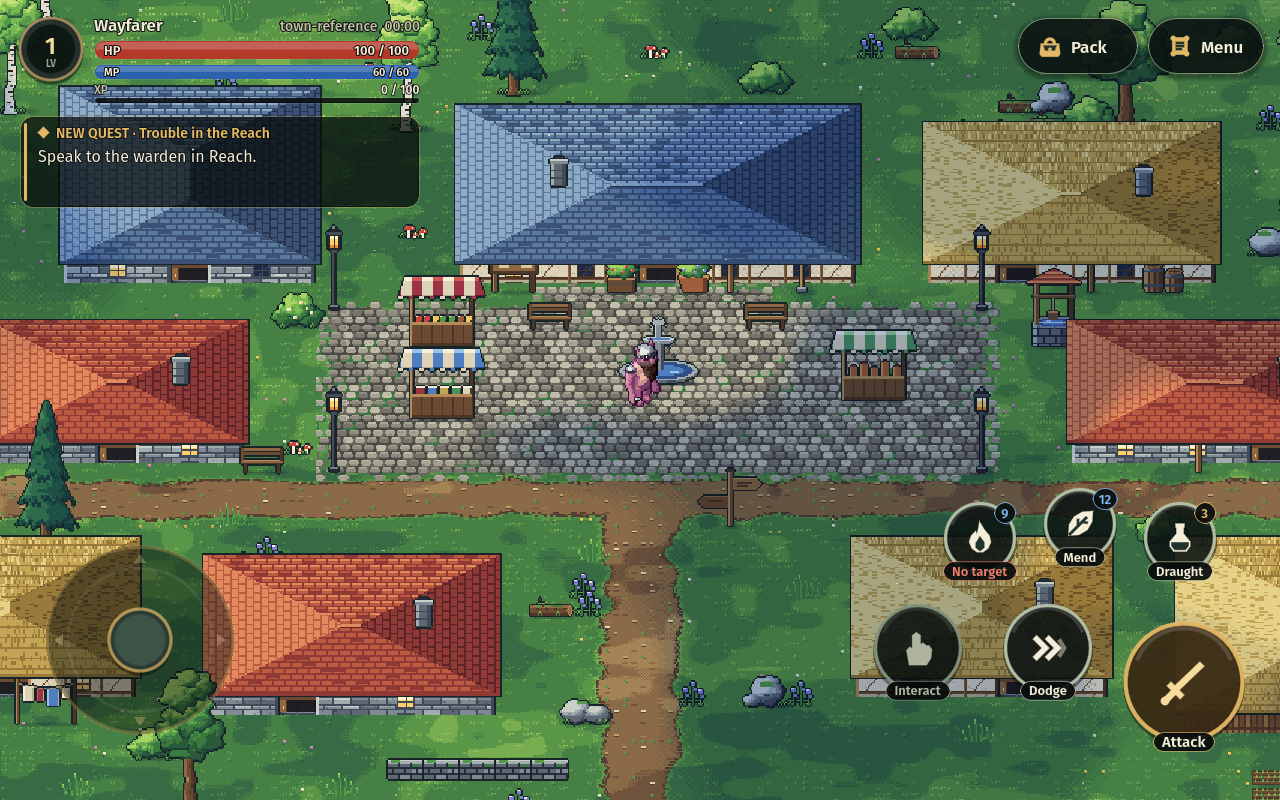
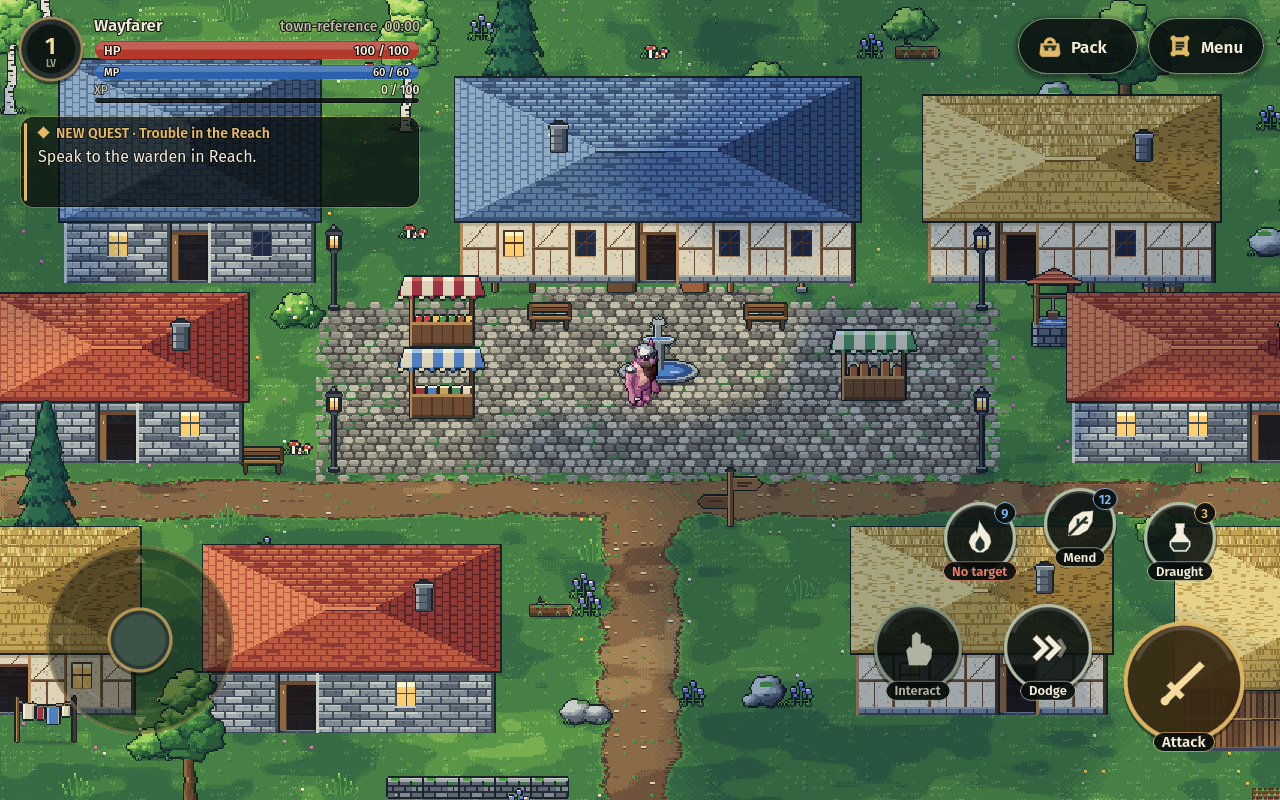
Draw town houses at the character's scale
House walls were 16 pixels high, the dungeon's wall height, which made
a 40-pixel character look huge beside them. Houses now stand 44 pixels:
a full-height front wall with larger windows and a 34-pixel doorway
under a transom, the roof raised to match, and a full-height back wall
inside. The front wall fades with the roof on entering, leaving the low
inner walls as a cutaway so the room still shows.

The wall shader now reads wall pixels from UV, so a low wall shows the
foot of the same pattern a full wall shows whole. The reference town is
re-spaced for the taller shells.

Claude-Session: https://claude.ai/code/session_011Mxa9ofPqLoqXLixAF9oze

diff --git a/game/dev/TownPlan.cs b/game/dev/TownPlan.cs
@@ -83,6 +83,8 @@ public static class TownBlocks
         new("26344f"),new("3b5274"),new("5b7a9e"),new("8fabc4"),
         new("4a3426"),new("6a4c34"),new("82613f"),new("9a784f"),
         new("5f4f38"),new("786447"),new("c4a455")};
+    /// <summary>Height of a house wall on screen: a little taller than a standing character.</summary>
+    public const int Rise=44;
     static ShaderMaterial? wall,floor;
     static Shader? roof;
     static ShaderMaterial Shared(string path)
@@ -91,6 +93,8 @@ public static class TownBlocks
     }
     public static ShaderMaterial Wall=>wall??=Shared("res://game/art/town_wall.gdshader");
     public static ShaderMaterial Floor=>floor??=Shared("res://game/art/town_floor.gdshader");
+    /// <summary>A wall material of its own, for a facade that fades.</summary>
+    public static ShaderMaterial Facade()=>Shared("res://game/art/town_wall.gdshader");
     public static ShaderMaterial Roof()
     {
         roof??=GD.Load<Shader>("res://game/art/town_roof.gdshader");
@@ -129,32 +133,49 @@ public partial class TownView : Node2D
 
 /// <summary>A house's roof, in the actor layer at the house's front edge: characters in
 /// front stand before it, everything within is under it. It fades out while the wayfarer
-/// is inside the house and returns when they leave.</summary>
+/// is inside the house and returns when they leave. The full-height front wall goes with
+/// it, leaving the low inner wall, so the room is seen as a cutaway.</summary>
 public partial class TownRoof : Node2D
 {
     public const float FadeSeconds=.22f;
     /// <summary>How far the roof stands above the wall heads; furniture within stays under it.</summary>
-    public const int Loft=20;
+    public const int Loft=10;
+    /// <summary>Height of the doorway opening under its transom.</summary>
+    public const int DoorHeight=34;
     public TownHouse House {get;init;}
+    public int Seed {get;init;}
     /// <summary>The wayfarer's ground position.</summary>
     public Func<Vector2> Wayfarer {get;init;}=()=>new Vector2(-1,-1);
     public Func<bool> ReducedMotion {get;init;}=()=>false;
     public float Opacity {get;private set;}=1;
     public bool Occupied {get;private set;}
-    readonly TerrainBatch batch=new();
-    ShaderMaterial? material;
+    readonly TerrainBatch batch=new(),front=new();
+    ShaderMaterial? material,facade;
     Rect2 area;
-    public static List<TownRoof> Create(TownPlan plan,Func<Vector2> wayfarer,Func<bool> reducedMotion)
-        =>plan.Houses.Select(house=>new TownRoof{House=house,Wayfarer=wayfarer,ReducedMotion=reducedMotion,
+    public static List<TownRoof> Create(TownPlan plan,int seed,Func<Vector2> wayfarer,Func<bool> reducedMotion)
+        =>plan.Houses.Select(house=>new TownRoof{House=house,Seed=seed,Wayfarer=wayfarer,ReducedMotion=reducedMotion,
             // A hair past the south wall's own row, so the roof always draws over it.
             Position=new Vector2(0,(house.Y+house.Height)*12+.5f),TextureFilter=TextureFilterEnum.Nearest}).ToList();
     public override void _Ready()
     {
         // The roof oversails the walls and stops just over the top of the south face.
-        float left=House.X*24-4,right=(House.X+House.Width)*24+4,top=House.Y*12-TerrainWallRow.Rise-Loft,bottom=(House.Y+House.Height)*12-TerrainWallRow.Rise+4;
+        float left=House.X*24-4,right=(House.X+House.Width)*24+4,top=House.Y*12-TownBlocks.Rise-Loft,bottom=(House.Y+House.Height)*12-TownBlocks.Rise+4;
         area=new Rect2(left,top-Position.Y,right-left,bottom-top);
         batch.Quad(area,new Rect2(0,0,area.Size.X,area.Size.Y),Colors.White);
         material=TownBlocks.Roof();material.SetShaderParameter("roof_size",area.Size);material.SetShaderParameter("roof_style",House.Roof);
+        // The front of the house: a full-height facade over the low inner wall, with a
+        // transom over each doorway. It goes with the roof.
+        float sill=(House.Y+House.Height)*12-Position.Y;int south=House.Y+House.Height-1;
+        for(int x=House.X;x<House.X+House.Width;x++)
+        {
+            bool door=House.Doorway(x,south);
+            float End(int nx)=>nx<House.X||nx>=House.X+House.Width||House.Doorway(nx,south)?.5f:0;
+            var (window,lit)=TownBlocks.Window(House,Seed,x);
+            int rise=door?TownBlocks.Rise-DoorHeight:TownBlocks.Rise;
+            front.Quad(new Rect2(x*24,sill-TownBlocks.Rise,24,rise),new Rect2(0,0,24,rise),new Color(1,door?0:End(x-1),door?0:End(x+1),(House.Wall+(window&&!door?4:0)+(window&&lit&&!door?8:0))/16f));
+        }
+        facade=TownBlocks.Facade();
+        AddChild(new Cover{Batch=front,Material=facade,TextureFilter=TextureFilterEnum.Nearest,ShowBehindParent=true});
         AddChild(new Cover{Batch=batch,Material=material,TextureFilter=TextureFilterEnum.Nearest,ShowBehindParent=true});
         Step(0,true);
     }
@@ -166,14 +187,14 @@ public partial class TownRoof : Node2D
         // Frozen time and reduced motion both get the end state at once.
         Opacity=snap||delta<=0||ReducedMotion()?target:Mathf.MoveToward(Opacity,target,(float)delta/FadeSeconds);
         if(Opacity==before&&!snap)return;
-        material!.SetShaderParameter("roof_alpha",Opacity);QueueRedraw();
+        material!.SetShaderParameter("roof_alpha",Opacity);facade!.SetShaderParameter("wall_alpha",Opacity);QueueRedraw();
     }
     public override void _Process(double delta)=>Step(delta,false);
     public override void _Draw()
     {
         // From outside the doorway is a dark opening under an oak lintel, with the door
         // standing open against the wall. It clears with the roof.
-        float sill=(House.Y+House.Height)*12-Position.Y,head=sill-TerrainWallRow.Rise+4;
+        float sill=(House.Y+House.Height)*12-Position.Y,head=sill-DoorHeight;
         for(int i=0;i<House.DoorWidth;i++)
         {
             float x=(House.X+House.Door+i)*24;
@@ -187,7 +208,7 @@ public partial class TownRoof : Node2D
         var foot=new Vector2(area.Position.X+area.Size.X*(House.X%2==0?.74f:.26f),area.Position.Y+area.Size.Y*.5f+2).Floor();
         DrawTextureRectRegion(TownAtlas.Props,new Rect2(foot-TownArt.Pivot,new Vector2(TownArt.Width,TownArt.Height)),TownArt.PropSource(TownArt.Module(TownProp.Chimney)),new Color(1,1,1,Opacity));
     }
-    public override void _ExitTree(){batch.Dispose();material?.Dispose();}
+    public override void _ExitTree(){batch.Dispose();front.Dispose();material?.Dispose();facade?.Dispose();}
     partial class Cover : Node2D
     {
         public TerrainBatch Batch {get;init;}=null!;

diff --git a/game/tests/TownPreview.cs b/game/tests/TownPreview.cs
@@ -28,9 +28,9 @@ public static class TownPreview
         // North side of the square: chapel, inn and shop.
         plan.Build(HouseStyle.Chapel,16,8,7,8,3).Build(HouseStyle.Inn,27,9,11,7,5).Build(HouseStyle.Cottage,40,10,8,6,2);
         // The lane west and east.
-        plan.Build(HouseStyle.Cottage,5,20,7,6,2).Build(HouseStyle.Stone,14,21,7,5,3).Build(HouseStyle.Smithy,44,21,8,5,5,2).Build(HouseStyle.Cottage,54,20,7,6,3);
+        plan.Build(HouseStyle.Cottage,5,21,7,5,2).Build(HouseStyle.Stone,14,21,7,5,3).Build(HouseStyle.Smithy,44,21,8,5,5,2).Build(HouseStyle.Cottage,54,21,7,5,3);
         // South of the road.
-        plan.Build(HouseStyle.Cottage,11,33,7,6,3).Build(HouseStyle.Stone,20,34,8,6,2).Build(HouseStyle.Cottage,38,33,7,6,4).Build(HouseStyle.Barn,47,33,9,8,3,2);
+        plan.Build(HouseStyle.Cottage,11,34,7,6,3).Build(HouseStyle.Stone,20,35,8,6,2).Build(HouseStyle.Cottage,38,34,7,6,4).Build(HouseStyle.Barn,47,34,9,8,3,2);
         // Inside the inn: bar, hearth, tables and a runner from the door.
         plan.Add(TownProp.Counter,29,11).Add(TownProp.Shelf,29,10).Add(TownProp.Barrels,31,10).Add(TownProp.Hearth,35,10)
             .Add(TownProp.Table,29,13).Add(TownProp.Table,35,13).Add(TownProp.Rug,32,12).Add(TownProp.Rug,32,13).Add(TownProp.Rug,32,14);
@@ -41,29 +41,29 @@ public static class TownPreview
         // Shop, smithy and homes.
         plan.Add(TownProp.Counter,44,12).Add(TownProp.Shelf,41,11).Add(TownProp.Shelf,46,11).Add(TownProp.Crates,46,13).Add(TownProp.Sacks,41,13);
         plan.Add(TownProp.Hearth,46,22).Add(TownProp.Anvil,48,23).Add(TownProp.Barrels,50,22).Add(TownProp.Crates,45,23);
-        plan.Add(TownProp.Bed,6,21).Add(TownProp.Hearth,9,21).Add(TownProp.Table,9,23).Add(TownProp.Rug,7,23);
+        plan.Add(TownProp.Bed,6,22).Add(TownProp.Hearth,9,22).Add(TownProp.Table,10,23).Add(TownProp.Rug,7,23);
         plan.Add(TownProp.Bed,15,22,1).Add(TownProp.Hearth,18,22).Add(TownProp.Rug,17,23,1);
-        plan.Add(TownProp.Shelf,55,21).Add(TownProp.Bed,59,21).Add(TownProp.Table,57,23);
-        plan.Add(TownProp.Bed,12,34).Add(TownProp.Hearth,15,34).Add(TownProp.Rug,14,36);
-        plan.Add(TownProp.Shelf,21,35).Add(TownProp.Hearth,23,35).Add(TownProp.Bed,26,35,1).Add(TownProp.Table,24,37);
-        plan.Add(TownProp.Bed,39,34,1).Add(TownProp.Table,42,35).Add(TownProp.Rug,41,36);
-        plan.Add(TownProp.Hay,48,34,1).Add(TownProp.Hay,51,34,0).Add(TownProp.Hay,54,35,0).Add(TownProp.Cart,52,37).Add(TownProp.Sacks,54,38).Add(TownProp.Crates,48,37);
+        plan.Add(TownProp.Shelf,55,22).Add(TownProp.Bed,59,22).Add(TownProp.Table,57,23);
+        plan.Add(TownProp.Bed,12,35).Add(TownProp.Hearth,15,35).Add(TownProp.Rug,14,37);
+        plan.Add(TownProp.Shelf,21,36).Add(TownProp.Hearth,23,36).Add(TownProp.Bed,26,36,1).Add(TownProp.Table,24,38);
+        plan.Add(TownProp.Bed,39,35,1).Add(TownProp.Table,42,36).Add(TownProp.Rug,41,37);
+        plan.Add(TownProp.Hay,48,35,1).Add(TownProp.Hay,51,35,0).Add(TownProp.Hay,54,36,0).Add(TownProp.Cart,52,38).Add(TownProp.Sacks,54,39).Add(TownProp.Crates,48,38);
         // The square itself.
         plan.Add(TownProp.Fountain,32,21).Add(TownProp.Stall,26,19,0).Add(TownProp.Stall,26,23,1).Add(TownProp.Stall,38,22,2)
             .Add(TownProp.LampPost,23,17).Add(TownProp.LampPost,41,17).Add(TownProp.LampPost,23,26).Add(TownProp.LampPost,41,26)
             .Add(TownProp.Bench,29,18).Add(TownProp.Bench,35,18).Add(TownProp.NoticeBoard,28,16)
             .Add(TownProp.Planter,31,16,0).Add(TownProp.Planter,33,16,1).Add(TownProp.TradeSign,34,16,0).Add(TownProp.BannerPole,36,16)
             .Add(TownProp.TradeSign,44,16,2).Add(TownProp.Barrels,46,16).Add(TownProp.TradeSign,47,26,1).Add(TownProp.Well,43,19);
-        plan.Add(TownProp.Signpost,34,29).Add(TownProp.Woodpile,53,26).Add(TownProp.Washing,15,40).Add(TownProp.Hay,58,39,1).Add(TownProp.Bench,21,26);
+        plan.Add(TownProp.Signpost,34,29).Add(TownProp.Woodpile,53,26).Add(TownProp.Washing,15,41).Add(TownProp.Hay,58,40,1).Add(TownProp.Bench,21,26);
         // A fenced kitchen garden west of the south cottages.
         for(int x=2;x<=8;x++){plan.Add(TownProp.FenceRun,x,31);if(x!=5)plan.Add(TownProp.FenceRun,x,35);}
         plan.Add(TownProp.Gate,5,35);
         for(int y=32;y<=35;y++){plan.Add(TownProp.FenceSide,2,y);plan.Add(TownProp.FenceSide,8,y);}
         for(int y=32;y<=34;y++)for(int x=3;x<=7;x++)if(x!=5)plan.Add(TownProp.Garden,x,y,x<5?0:1);
         // A field by the barn and a low wall along the south road.
-        for(int y=43;y<=45;y++)for(int x=49;x<=56;x++)plan.Add(TownProp.Garden,x,y,0);
-        plan.Add(TownProp.Scarecrow,53,43);
-        for(int x=25;x<=29;x++)plan.Add(TownProp.StoneWall,x,43);
+        for(int y=44;y<=46;y++)for(int x=49;x<=56;x++)plan.Add(TownProp.Garden,x,y,0);
+        plan.Add(TownProp.Scarecrow,53,44);
+        for(int x=25;x<=29;x++)plan.Add(TownProp.StoneWall,x,44);
         for(int x=34;x<=38;x++)plan.Add(TownProp.StoneWall,x,46);
         return plan;
     }
@@ -83,8 +83,8 @@ public static class TownPreview
             var r=Region();w.RegionsById[r.Id]=r;TownStage.Stage(r.Id,Plan());p.Region=r.Id;
             if(clean)app.Ui.Visible=false;
             // Outside first, then inside each kind of house, where its roof gives way.
-            foreach(var (name,x,y) in new[]{("square",32f,22.5f),("west",12f,27.5f),("east",50f,27.5f),("south",24f,41.5f),
-                ("inside-inn",32f,13.5f),("inside-chapel",19.5f,12.5f),("inside-cottage",8f,24.3f),("inside-smithy",48.5f,24.3f),("inside-barn",51f,39f)})
+            foreach(var (name,x,y) in new[]{("square",32f,22.5f),("west",12f,27.5f),("east",50f,27.5f),("south",24f,42.5f),
+                ("inside-inn",32f,13.5f),("inside-chapel",19.5f,12.5f),("inside-cottage",8f,24.3f),("inside-smithy",48.5f,24.3f),("inside-barn",51f,40f)})
             {p.X=x*24;p.Y=y*24;w.Cancel(p);app.RebuildViews();app.ResumeGame();await Shot(app,name,folder);}
             // The whole town at once, for composition.
             p.X=32*24;p.Y=29.5f*24;app.RebuildViews();app.ResumeGame();app.Camera.Zoom=zoom*.5f;await Shot(app,"overview",folder);

diff --git a/game/dev/TerrainWallRow.cs b/game/dev/TerrainWallRow.cs
@@ -51,12 +51,13 @@ public partial class TerrainWallRow : Node2D
             if(town.HouseAt(x,Row) is not {} house)continue;
             var p = GodotConvert.GroundToScreen(x * RegionState.Tile, Row * RegionState.Tile) - Position;
             int mask=(Wall(x,Row-1)?1:0)|(Wall(x+1,Row)?2:0)|(Wall(x,Row+1)?4:0)|(Wall(x-1,Row)?8:0);
-            batch!.Rect(new Rect2(p+new Vector2(0,-Rise),new Vector2(24,12)),new Color(0,mask/15f,0,house.Wall/16f));
+            // The back wall stands full height; side and front walls inside are cut low so the
+            // room shows. From outside TownRoof covers the front with a full-height facade.
+            int rise=Row==house.Y?TownBlocks.Rise:(int)Rise;
+            batch!.Quad(new Rect2(p+new Vector2(0,-rise),new Vector2(24,12)),new Rect2(0,0,24,12),new Color(0,mask/15f,0,house.Wall/16f));
             if(Wall(x,Row+1))continue;
             float End(int nx)=>!Wall(nx,Row)?.5f:Wall(nx,Row+1)?1:0;
-            // Only the outer south wall has windows; they would look into the room otherwise.
-            var (window,lit)=Row==house.Y+house.Height-1?TownBlocks.Window(house,r.Seed,x):(false,false);
-            batch.Rect(new Rect2(p+new Vector2(0,12-Rise),new Vector2(24,Rise)),new Color(1,End(x-1),End(x+1),(house.Wall+(window?4:0)+(window&&lit?8:0))/16f));
+            batch.Quad(new Rect2(p+new Vector2(0,12-rise),new Vector2(24,rise)),new Rect2(0,TownBlocks.Rise-rise,24,rise),new Color(1,End(x-1),End(x+1),house.Wall/16f));
         }
         batch!.Draw(this);
     }

diff --git a/game/tests/TownArtChecks.cs b/game/tests/TownArtChecks.cs
@@ -85,7 +85,7 @@ public static class TownArtChecks
             foreach(var view in views)view.Free();
             // Roofs: one per house, and each knows when the wayfarer is under it.
             var where=new Vector2(-1,-1);
-            var roofs=TownRoof.Create(plan,()=>where,()=>false);
+            var roofs=TownRoof.Create(plan,r.Seed,()=>where,()=>false);
             check(roofs.Count==plan.Houses.Count && roofs.Zip(plan.Houses).All(pair=>pair.First.Position.Y>(pair.Second.Y+pair.Second.Height)*12 && pair.First.Position.Y<(pair.Second.Y+pair.Second.Height)*12+1),"a roof per house, sorted at its front edge");
             foreach(var roof in roofs)roof.Free();
             foreach(var row in TerrainWallRow.Create(r))row.Free();

diff --git a/game/dev/Foundation.cs b/game/dev/Foundation.cs
@@ -774,7 +774,7 @@ public partial class Foundation : Node2D
             ground.AddChild(new TownPaving {Region=r,Plan=plan});
             foreach (var row in wallRows) { row.Town=plan; row.Region=r; }
             town.AddRange(TownView.Create(plan));
-            town.AddRange(TownRoof.Create(plan,()=>new Vector2(World.Player.X,World.Player.Y),()=>Ui.Preferences.ReducedMotion));
+            town.AddRange(TownRoof.Create(plan,r.Seed,()=>new Vector2(World.Player.X,World.Player.Y),()=>Ui.Preferences.ReducedMotion));
             foreach (var piece in town) actors.AddChild(piece);
         }
         foreach(var decoration in decorations) { actors.RemoveChild(decoration); decoration.QueueFree(); }

diff --git a/docs/TOWN_ASSETS.md b/docs/TOWN_ASSETS.md
@@ -28,19 +28,24 @@ with the doorway in its south wall. `TownPlan.Carve` writes it into the region a
 `Terrain.Floor`, so collision, line of sight and pathing work with no town-specific rules: walls block, the
 doorway is the only way in.
 
-- **Walls** reuse `TerrainWallRow` (the dungeon's Y-sorted wall rows): a wall head and, where open ground lies
-  to the south, a 16-pixel face. South faces of the outer wall carry windows, some lit.
+Houses are drawn at the character's scale: walls stand 44 pixels (`TownBlocks.Rise`), a little taller than a
+standing character, and the doorway opening is 34 pixels under a transom.
+
+- **Outside.** `TownRoof` is the shell of the house: a full-height front wall with windows (some lit) and a
+  dark doorway with the door standing open, and above it a hipped roof seen from above. It sits in the actor
+  layer at the house's front edge: characters in front of the house stand before it, and everything inside is
+  under it.
+- **Inside.** The room is a cutaway. The back wall stands full height; the side and front walls are cut low
+  (16 pixels, the dungeon's wall height) so the floor and furniture show. These are `TerrainWallRow` rows, the
+  same Y-sorted wall rows the dungeons use.
 - **Floors** are drawn per tile in the ground layer, shaded under the north and west walls, with a stone
   threshold in the doorway.
-- **Roof.** `TownRoof` is a hipped roof seen from above, standing `Loft` (20) pixels over the wall heads. It
-  sits in the actor layer at the house's front edge: characters in front of the house stand before it, and
-  everything inside is under it. From outside the doorway shows as a dark opening with the door standing open.
 - **Entering.** When the wayfarer's tile is inside the house rectangle (doorway included) that house's roof,
-  chimney and doorway shadow fade out over about a fifth of a second, and fade back on leaving. Other roofs
-  stay shut. Reduced motion switches at once.
+  front wall, chimney and doorway shadow fade out over about a fifth of a second, and fade back on leaving.
+  Other houses stay shut. Reduced motion switches at once.
 
-Leave four clear rows between the back of one house and the front of the next, or the nearer roof will stand
-over the further house's front wall.
+A house's shell rises 54 pixels above its back wall. Leave five clear rows between the back of one house and
+the front of the next (or a road), or the nearer roof will stand over them.
 
 ## Furniture
 
